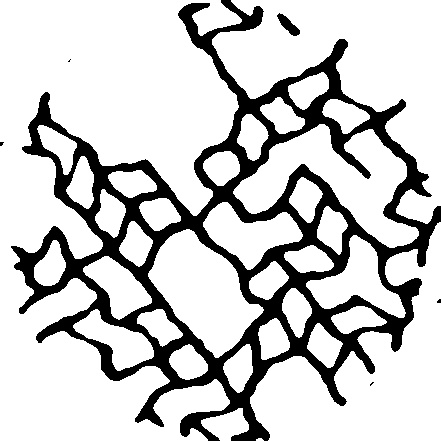
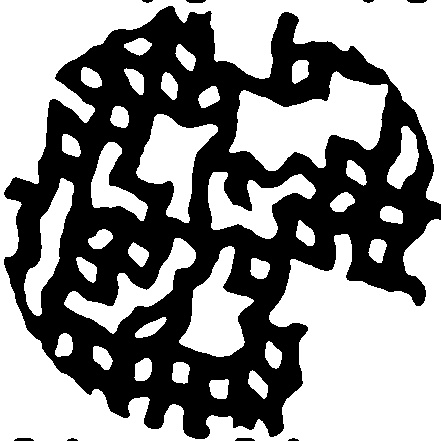
- Included smoother map deformation - Update README.md

diff --git a/map_manipulation_smooth.py b/map_manipulation_smooth.py
@@ -12,7 +12,7 @@ BRANCH_PROB = .5
 MAP_X = [*range(0, MAP_WIDTH, DOT_GAP * BLOCK_WIDTH)]
 MAP_Y = [*range(0, MAP_WIDTH, DOT_GAP * BLOCK_WIDTH)]
 SHOW_MAP = False
-SHIFT_GAP = 5
+SHIFT_GAP = 5  # 5
 
 
 def show(img, height=300, title='untitled'):
@@ -132,16 +132,16 @@ def generate():
 def deform(map_=None):
     if map_ is None:
         map_ = 'res/map-grid'
-    x = np.linspace(0, 2 * np.pi, MAP_WIDTH + 1)
+    # x = np.linspace(0, 2 * np.pi, MAP_WIDTH + 1)
+    x = np.linspace(0, DOT_GAP * BLOCK_WIDTH - 1, DOT_GAP * BLOCK_WIDTH)
     shifts = []
-    steps = 10
+    steps = (NUM_BLOCKS + 1) * NUM_BLOCKS * 2
     for i in range(steps):
         y_diff = -1
+        this_mag = randint(-99, 100)
+        mag_shift = np.cumsum(randint(-2, 3, DOT_GAP * BLOCK_WIDTH)) + this_mag
         while not y_diff > 0:
-            y = np.convolve(randint(0, 100) * np.sin(randint(0, 10) * x), randint(0, 100) * np.cos(randint(0, 10) * x),
-                            'same')
-            # y = randint(1, 2) * np.sin(randint(1, 2) * x) + \
-            #    randint(1, 2) * np.sin(randint(1, 2) * x + 2 * np.pi * np.random.rand())
+            y = np.multiply(mag_shift, np.sin(np.pi * x / (DOT_GAP * BLOCK_WIDTH)))
             # print(y.min(), y.max())
             y_diff = y.max() - y.min()
         y_new = 2 * y / y_diff
@@ -152,22 +152,42 @@ def deform(map_=None):
     rows, cols = old_map.shape
     # rot_mat = cv.getRotationMatrix2D((cols / 2, rows / 2), 360 // steps, 1)
 
+    mod_map_0 = 0 * np.ones((MAP_WIDTH + 1, MAP_WIDTH + 1))
+    mod_map_1 = 0 * np.ones((MAP_WIDTH + 1, MAP_WIDTH + 1))
+    row_center = 0
+    col_center = 0
     for k in tqdm(range(steps)):
-        mod_map = 255 * np.ones((MAP_WIDTH + 1, MAP_WIDTH + 1))
+        #
         t_shift = randint(SHIFT_GAP // 2, SHIFT_GAP + 1)
-        for i in range(MAP_WIDTH + 1):
-            this_shift = shifts[k][i] * t_shift  # randint(SHIFT_GAP//2, SHIFT_GAP + 1)
-            for j in range(MAP_WIDTH + 1):
-                if 0 <= j + int(this_shift) <= MAP_WIDTH:
-                    if k % 2 == 0:
-                        mod_map[i, j + int(this_shift)] = old_map[i, j]
-                    else:
-                        mod_map[j + int(this_shift), i] = old_map[j, i]
-        old_map = mod_map.copy()
-        rot_mat = cv.getRotationMatrix2D((cols / 2, rows / 2), randint(0, 360), 1)
-        # rot_mat = cv.getRotationMatrix2D((cols / 2, rows / 2), 360 // steps, 1)
-        old_map = cv.warpAffine(old_map, rot_mat, (cols, rows))
-        show(img=mod_map)
+        this_shift = shifts[k] * t_shift
+        # rows first
+        if k < steps // 2:
+            row_center_val = (row_center+1)*DOT_GAP*BLOCK_WIDTH
+            col_center_val = col_center*DOT_GAP*BLOCK_WIDTH
+            for i in range(row_center_val-LINE_WIDTH, row_center_val+LINE_WIDTH+1):
+                for j in range(0, DOT_GAP*BLOCK_WIDTH):
+                    # print(i, j)
+                    mod_map_0[i + int(this_shift[j]), j + col_center_val] = old_map[i, j + col_center_val]
+            col_center += 1
+            if col_center > NUM_BLOCKS:
+                col_center = 0
+                row_center += 1
+        else:
+            if row_center > NUM_BLOCKS:
+                col_center += 1
+                row_center = 0
+            row_center_val = row_center*DOT_GAP*BLOCK_WIDTH
+            col_center_val = col_center*DOT_GAP*BLOCK_WIDTH
+            for j in range(col_center_val-LINE_WIDTH, col_center_val+LINE_WIDTH+1):
+                for i in range(0, DOT_GAP*BLOCK_WIDTH):
+                    # print(i, j)
+                    mod_map_1[i + row_center_val, j + int(this_shift[i])] = old_map[i + row_center_val, j]
+            row_center += 1
+    show(img=mod_map_0)
+    show(img=mod_map_1)
+    mod_map = (mod_map_0 + mod_map_1)
+    old_map = mod_map.copy()
+    show(img=mod_map)
     """    
     x_new = [*range(0, MAP_WIDTH + 1)]
     for x_ in x_new:
@@ -189,6 +209,6 @@ def sharpening(img):
 
 
 if __name__ == '__main__':
-    generate()
-    # img_ = 'test/image001'
-    deform()
+    # generate()
+    img_ = 'test/image005'
+    deform(map_=img_)

diff --git a/README.md b/README.md
@@ -14,6 +14,11 @@ labelling with the convention `agentID_TTT.jpg`)
 &nbsp;&nbsp;&nbsp;&nbsp;&nbsp;&nbsp;&nbsp;<img src="res/map-grid.jpg" width="100">
 &nbsp;&nbsp;&nbsp;&nbsp;&nbsp;&nbsp;&nbsp;<img src="res/map-distorted.jpg" width="100">
 
+- A smoother deformation can be generated with [map_manipulation_smooth.py](map_manipulation_smooth.py)
+
+&nbsp;&nbsp;&nbsp;&nbsp;&nbsp;&nbsp;&nbsp;<img src="test/image001.jpg" width="100">
+&nbsp;&nbsp;&nbsp;&nbsp;&nbsp;&nbsp;&nbsp;<img src="test/image001-distorted.jpg" width="100">
+
 ### Notes:
 - Agents' snapshots are saved with time, which is converted to three digits.
 To save beyond 1000 snapshots, modify `zfill(3)` under `Agent::snap()` in [agent_definition.py](agent_definitions.py). 
